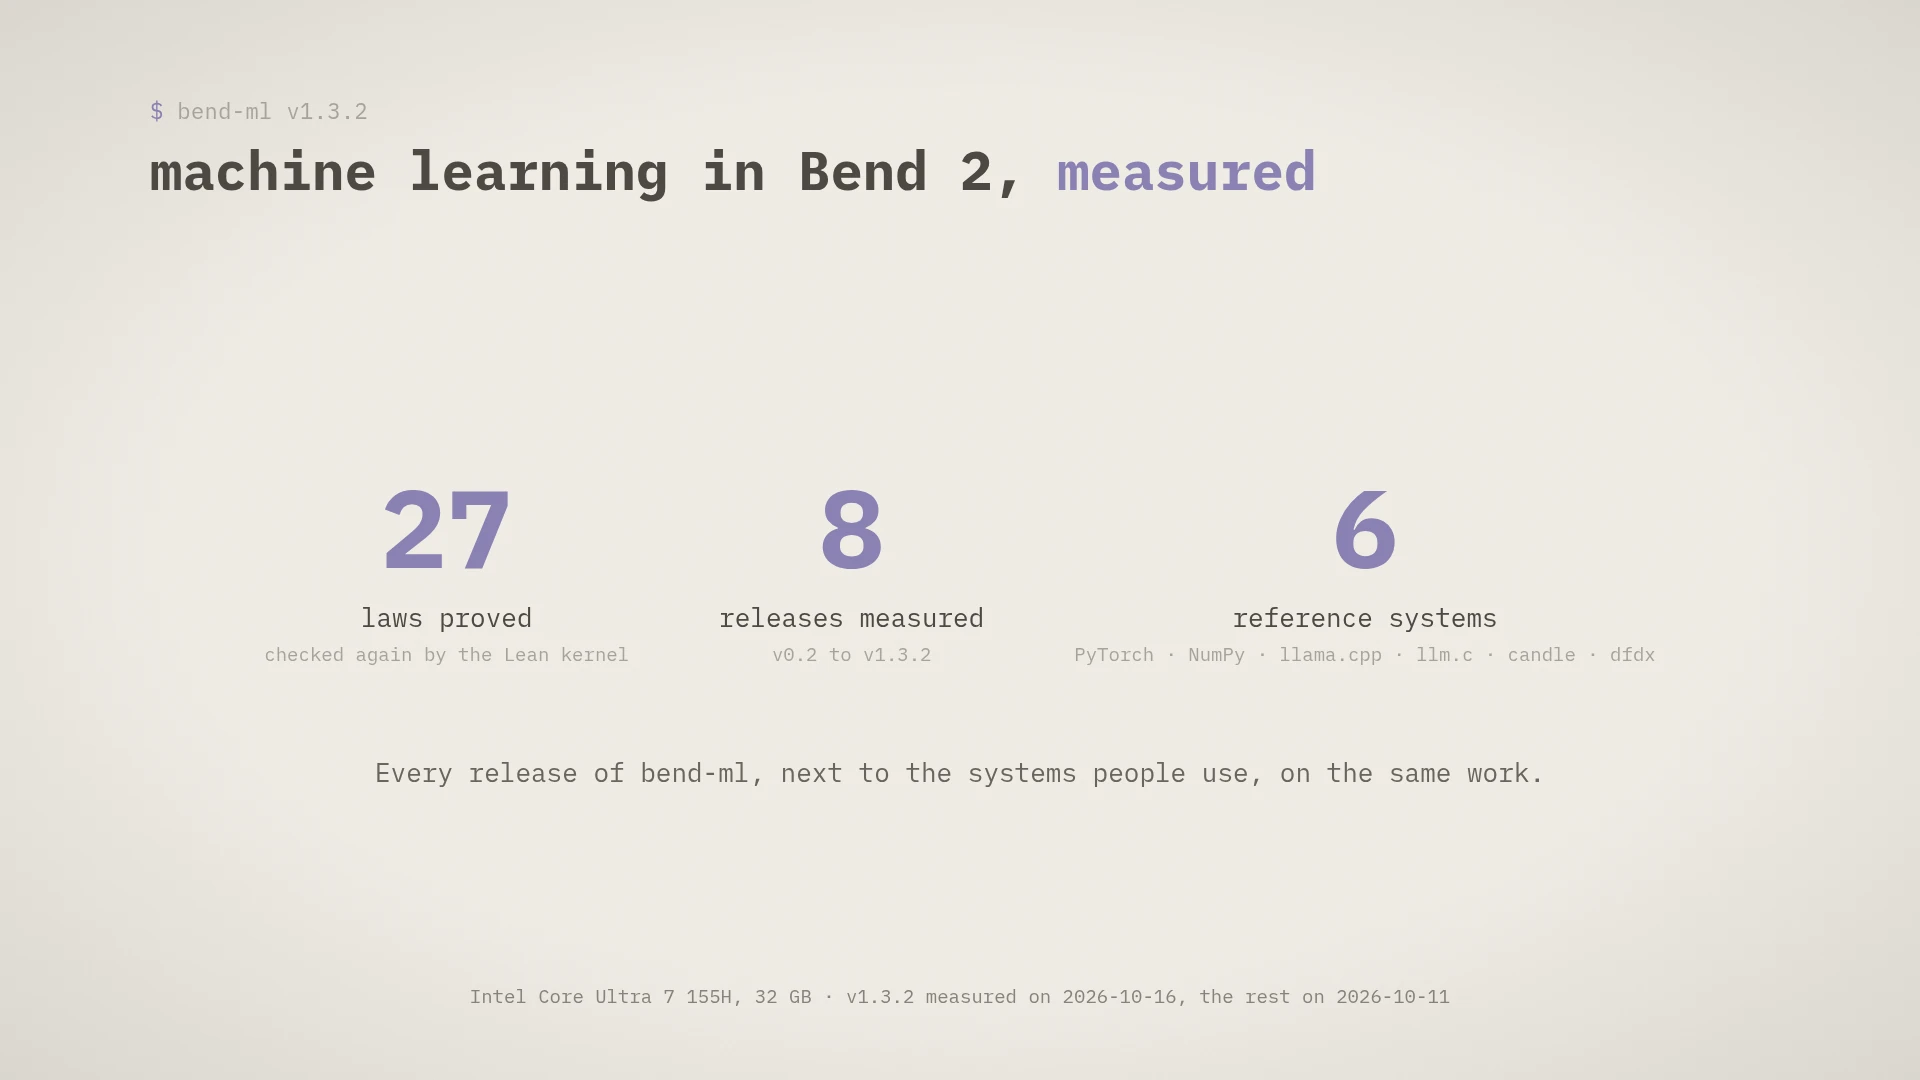
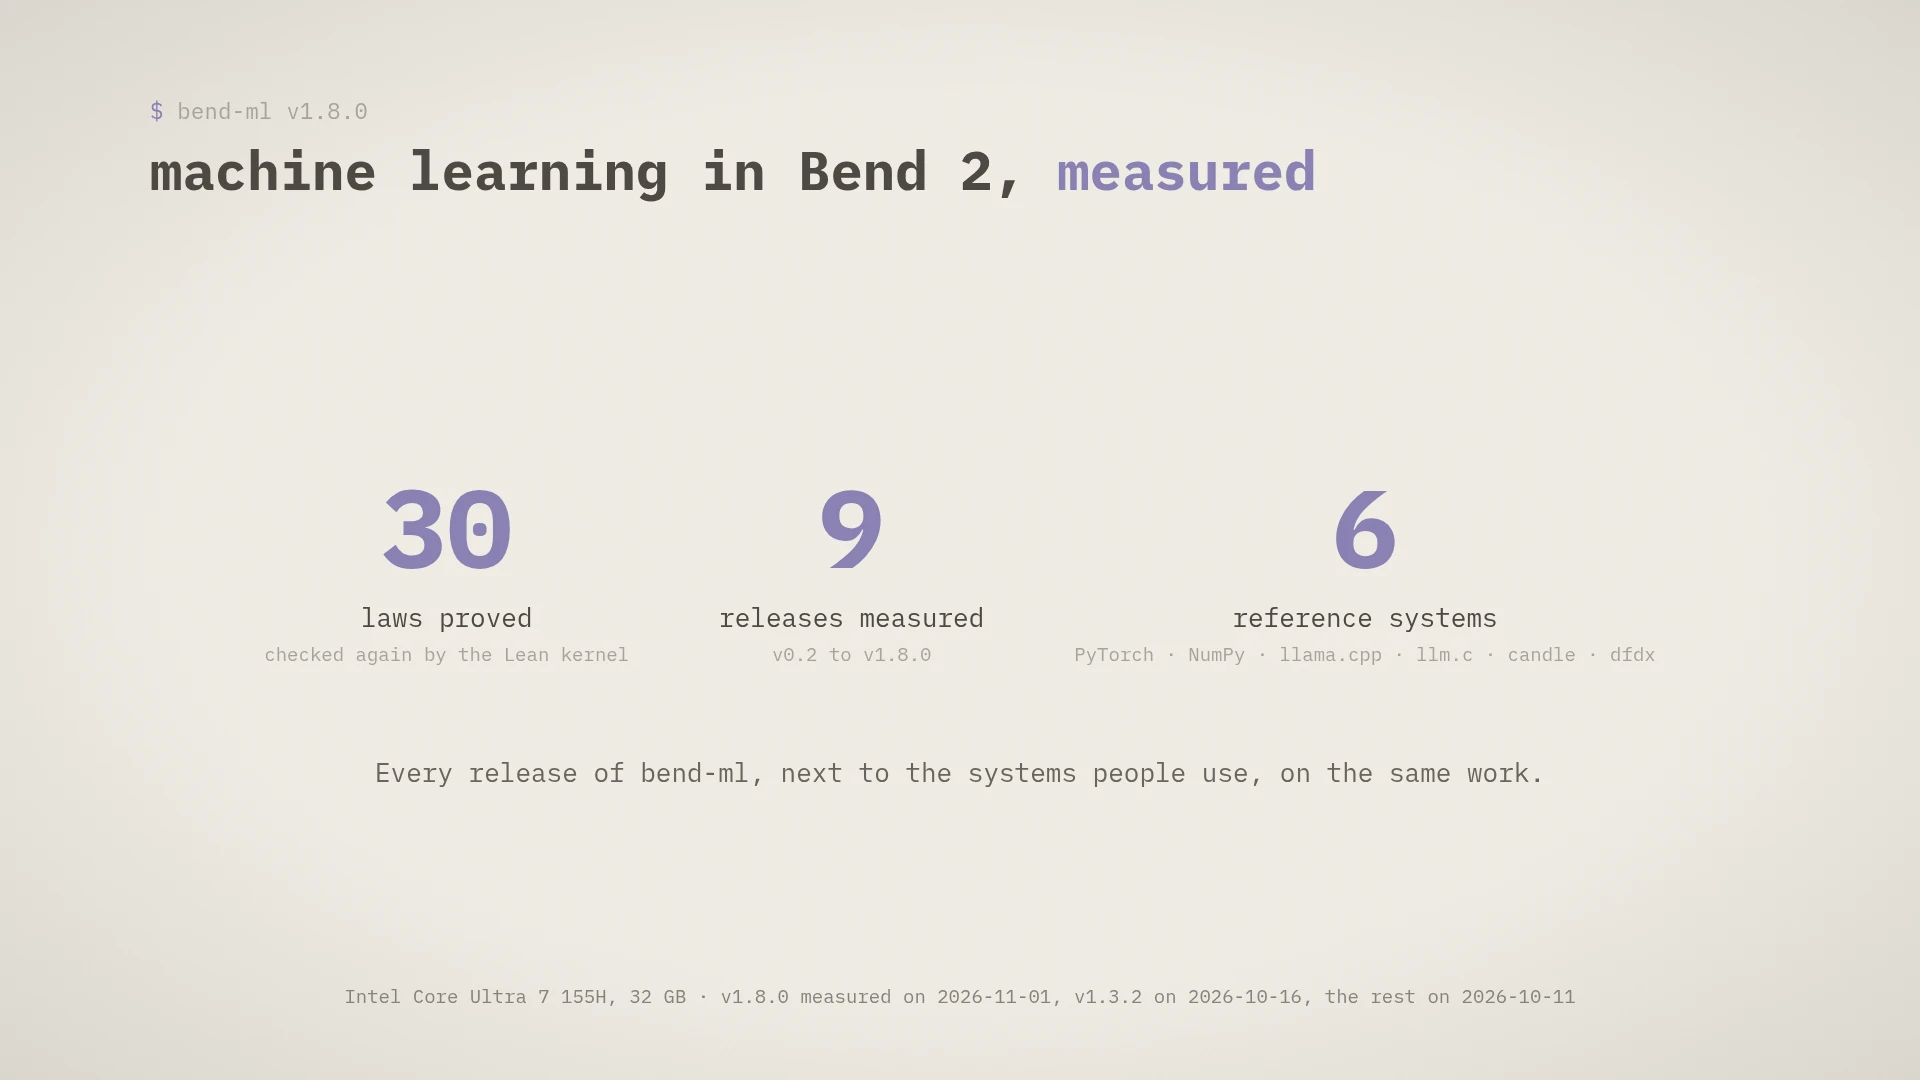
media: README deck and captured outputs with v1.8.0's idle numbers
The thread-curve slide no longer says Bend keeps gaining up to 22 threads:
v1.8.0 levels off from 4 threads (85 ms) to 79 at best.

Changed region(s): [[0.2188, 0.9167, 0.8125, 0.9472], [0.1875, 0.4583, 0.2812, 0.5194], [0.4062, 0.4583, 0.4688, 0.5194]]

diff --git a/docs/media/deck/frames/index.html b/docs/media/deck/frames/index.html
@@ -1,6 +1,6 @@
-<!doctype html><meta charset="utf-8"><title>bend-ml v1.3.2 · evidence of 2026-10-11 and 2026-10-16</title>
+<!doctype html><meta charset="utf-8"><title>bend-ml v1.8.0 · evidence of 2026-10-11, 2026-10-16 and 2026-11-01</title>
 <style>body{background:#e9e4db;margin:0;padding:40px 0;font-family:ui-monospace,monospace;color:#69665f}img{display:block;width:min(1600px,96vw);margin:0 auto 40px;border-radius:12px;box-shadow:0 2px 12px rgba(0,0,0,.12)}h1{text-align:center;font-size:20px;font-weight:400}</style>
-<h1>bend-ml v1.3.2 · evidence of 2026-10-11 and 2026-10-16</h1><img src="01-title.webp" alt="01-title.webp">
+<h1>bend-ml v1.8.0 · evidence of 2026-10-11, 2026-10-16 and 2026-11-01</h1><img src="01-title.webp" alt="01-title.webp">
 <img src="02-same-work.webp" alt="02-same-work.webp">
 <img src="03-history.webp" alt="03-history.webp">
 <img src="04-vs-references.webp" alt="04-vs-references.webp">
